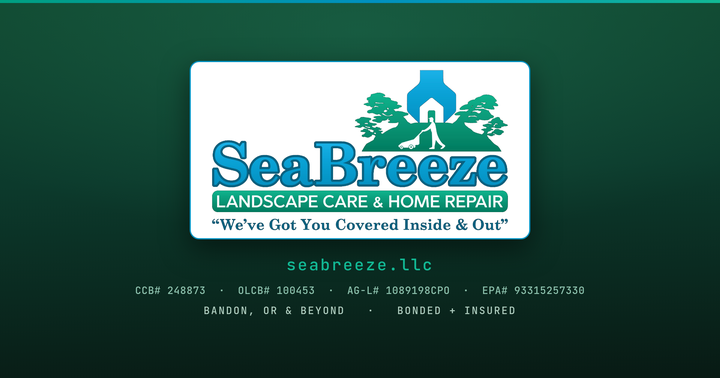
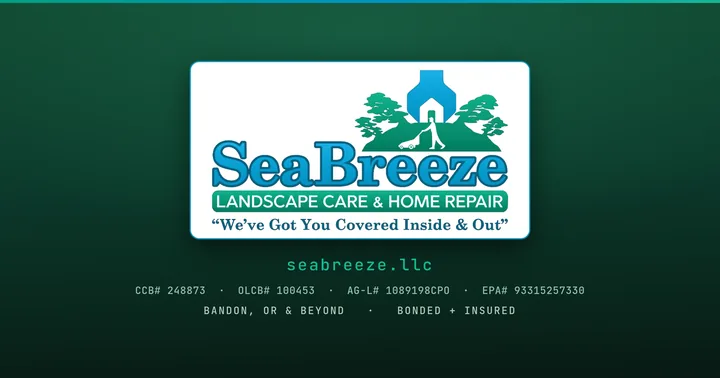
work: US Survey Supply card staged behind a published flag, sites lead the work page
The Taylor card is in portfolio.ts and SelectedWork.astro with published: false,
so nothing renders until ussurveysupply.com serves the site. The link already
names the real domain, never the staging host. work.astro maps lh.taylor to the
card so the wall wires up the moment the API measures it (cutover W9).

Sites now lead /work and apps follow. Sites are what sells.

Card sizes said 100vw where the layout is 100vw minus 8px of gutter; at 1.75dppx
that is 721 against a 720w rung, so every phone pulled the 1280w file. Fixed to
the real width. seabreeze-card re-encoded at q82: 233KB to 33KB, same pixels.
Two pre-existing W-4 lines said shipped; they say built.

diff --git a/src/lib/portfolio.ts b/src/lib/portfolio.ts
@@ -53,6 +53,8 @@ export interface PortfolioItem {
   quote?: { text: string; attr: string };
   /** Links shown at the bottom of expanded detail. */
   links: { label: string; href: string; primary?: boolean }[];
+  /** False keeps the item out of every list until its domain is live. Default true. */
+  published?: boolean;
   /** Display order within category, lower = first. */
   order: number;
 }
@@ -60,8 +62,48 @@ export interface PortfolioItem {
 export const portfolio: PortfolioItem[] = [
   // ─────────── SITES ───────────
   {
-    slug: 'bandon-by-the-dunes',
+    slug: 'us-survey-supply',
     numeral: 'i.',
+    name: 'US Survey Supply',
+    category: 'site',
+    meta: 'ussurveysupply.com · surveying equipment dealer · 39 pages',
+    tags: ['ASTRO', 'TAILWIND', 'CLOUDFLARE'],
+    status: 'live',
+    order: 1,
+    // Hidden until ussurveysupply.com serves the site (tracks/wc-taylor-cutover.md
+    // W9). Set published: true at cutover; the link already points at the real
+    // domain, never the staging host.
+    published: false,
+    image: {
+      src: '/work/taylor-card.webp',
+      srcSmall: '/work/taylor-card-720.webp',
+      srcXSmall: '/work/taylor-card-480.webp',
+      alt: 'US Survey Supply, a Carlson Centric Dealer in Bandon, Oregon: white condensed wordmark and red-and-white survey target on navy beside the Coquille River Lighthouse.',
+      width: 1200,
+      height: 630,
+    },
+    details: [
+      {
+        label: 'Stack',
+        value: 'Astro · Tailwind v4 · Cloudflare Pages · Pages Functions quote form · per-page CSP',
+      },
+      {
+        label: 'Scope',
+        value:
+          'Full site for a Bandon surveying-equipment dealer shipping nationwide. New and used GNSS, total stations, data collectors and Carlson software, plus a rental fleet, brochure library, repair and training pages, and a quote request form. 39 pages against a 32-page contract.',
+      },
+      {
+        label: 'Result',
+        value: 'Live and mobile-first, Mozilla Observatory A+ with a perfect 140, Lighthouse measured on the wall above.',
+      },
+    ],
+    links: [
+      { label: 'Visit site →', href: 'https://ussurveysupply.com', primary: true },
+    ],
+  },
+  {
+    slug: 'bandon-by-the-dunes',
+    numeral: 'ii.',
     name: 'Bandon By The Dunes Realtee',
     category: 'site',
     meta: 'bandonbythedunesrealtee.net · real estate · live RMLS listings',
@@ -97,7 +139,7 @@ export const portfolio: PortfolioItem[] = [
   },
   {
     slug: 'seabreeze',
-    numeral: 'ii.',
+    numeral: 'iii.',
     name: 'SeaBreeze Landscape & Home Repair',
     category: 'site',
     meta: 'seabreeze.llc · landscape care + home repair · 7-day build',
@@ -133,7 +175,7 @@ export const portfolio: PortfolioItem[] = [
   },
   {
     slug: 'sogn-contracting',
-    numeral: 'iii.',
+    numeral: 'iv.',
     name: 'Sogn Contracting',
     category: 'site',
     meta: 'sogncontracting.com · contractor · 3-day build',
@@ -173,7 +215,7 @@ export const portfolio: PortfolioItem[] = [
   },
   {
     slug: 'baseline-marketing',
-    numeral: 'iv.',
+    numeral: 'v.',
     name: 'Baseline Marketing',
     category: 'site',
     meta: 'baseline.marketing · 13 pages · 22 custom widgets',
@@ -306,7 +348,7 @@ export const portfolio: PortfolioItem[] = [
       {
         label: 'Scope',
         value:
-          'Flashlight that turns on with a chop gesture, no button tap. For anyone with their hands full: parents carrying kids, contractors on a job, dog walkers at night. Calibration, sensitivity tuning, pocket lock, battery guard, SOS pattern. Subscription tier shipped. Zero analytics.',
+          'Flashlight that turns on with a chop gesture, no button tap. For anyone with their hands full: parents carrying kids, contractors on a job, dog walkers at night. Calibration, sensitivity tuning, pocket lock, battery guard, SOS pattern. Subscription tier built. Zero analytics.',
       },
       {
         label: 'Status',
@@ -356,9 +398,9 @@ export const portfolio: PortfolioItem[] = [
 ];
 
 export const sites = portfolio
-  .filter((p) => p.category === 'site')
+  .filter((p) => p.category === 'site' && p.published !== false)
   .sort((a, b) => a.order - b.order);
 
 export const apps = portfolio
-  .filter((p) => p.category === 'app')
+  .filter((p) => p.category === 'app' && p.published !== false)
   .sort((a, b) => a.order - b.order);
